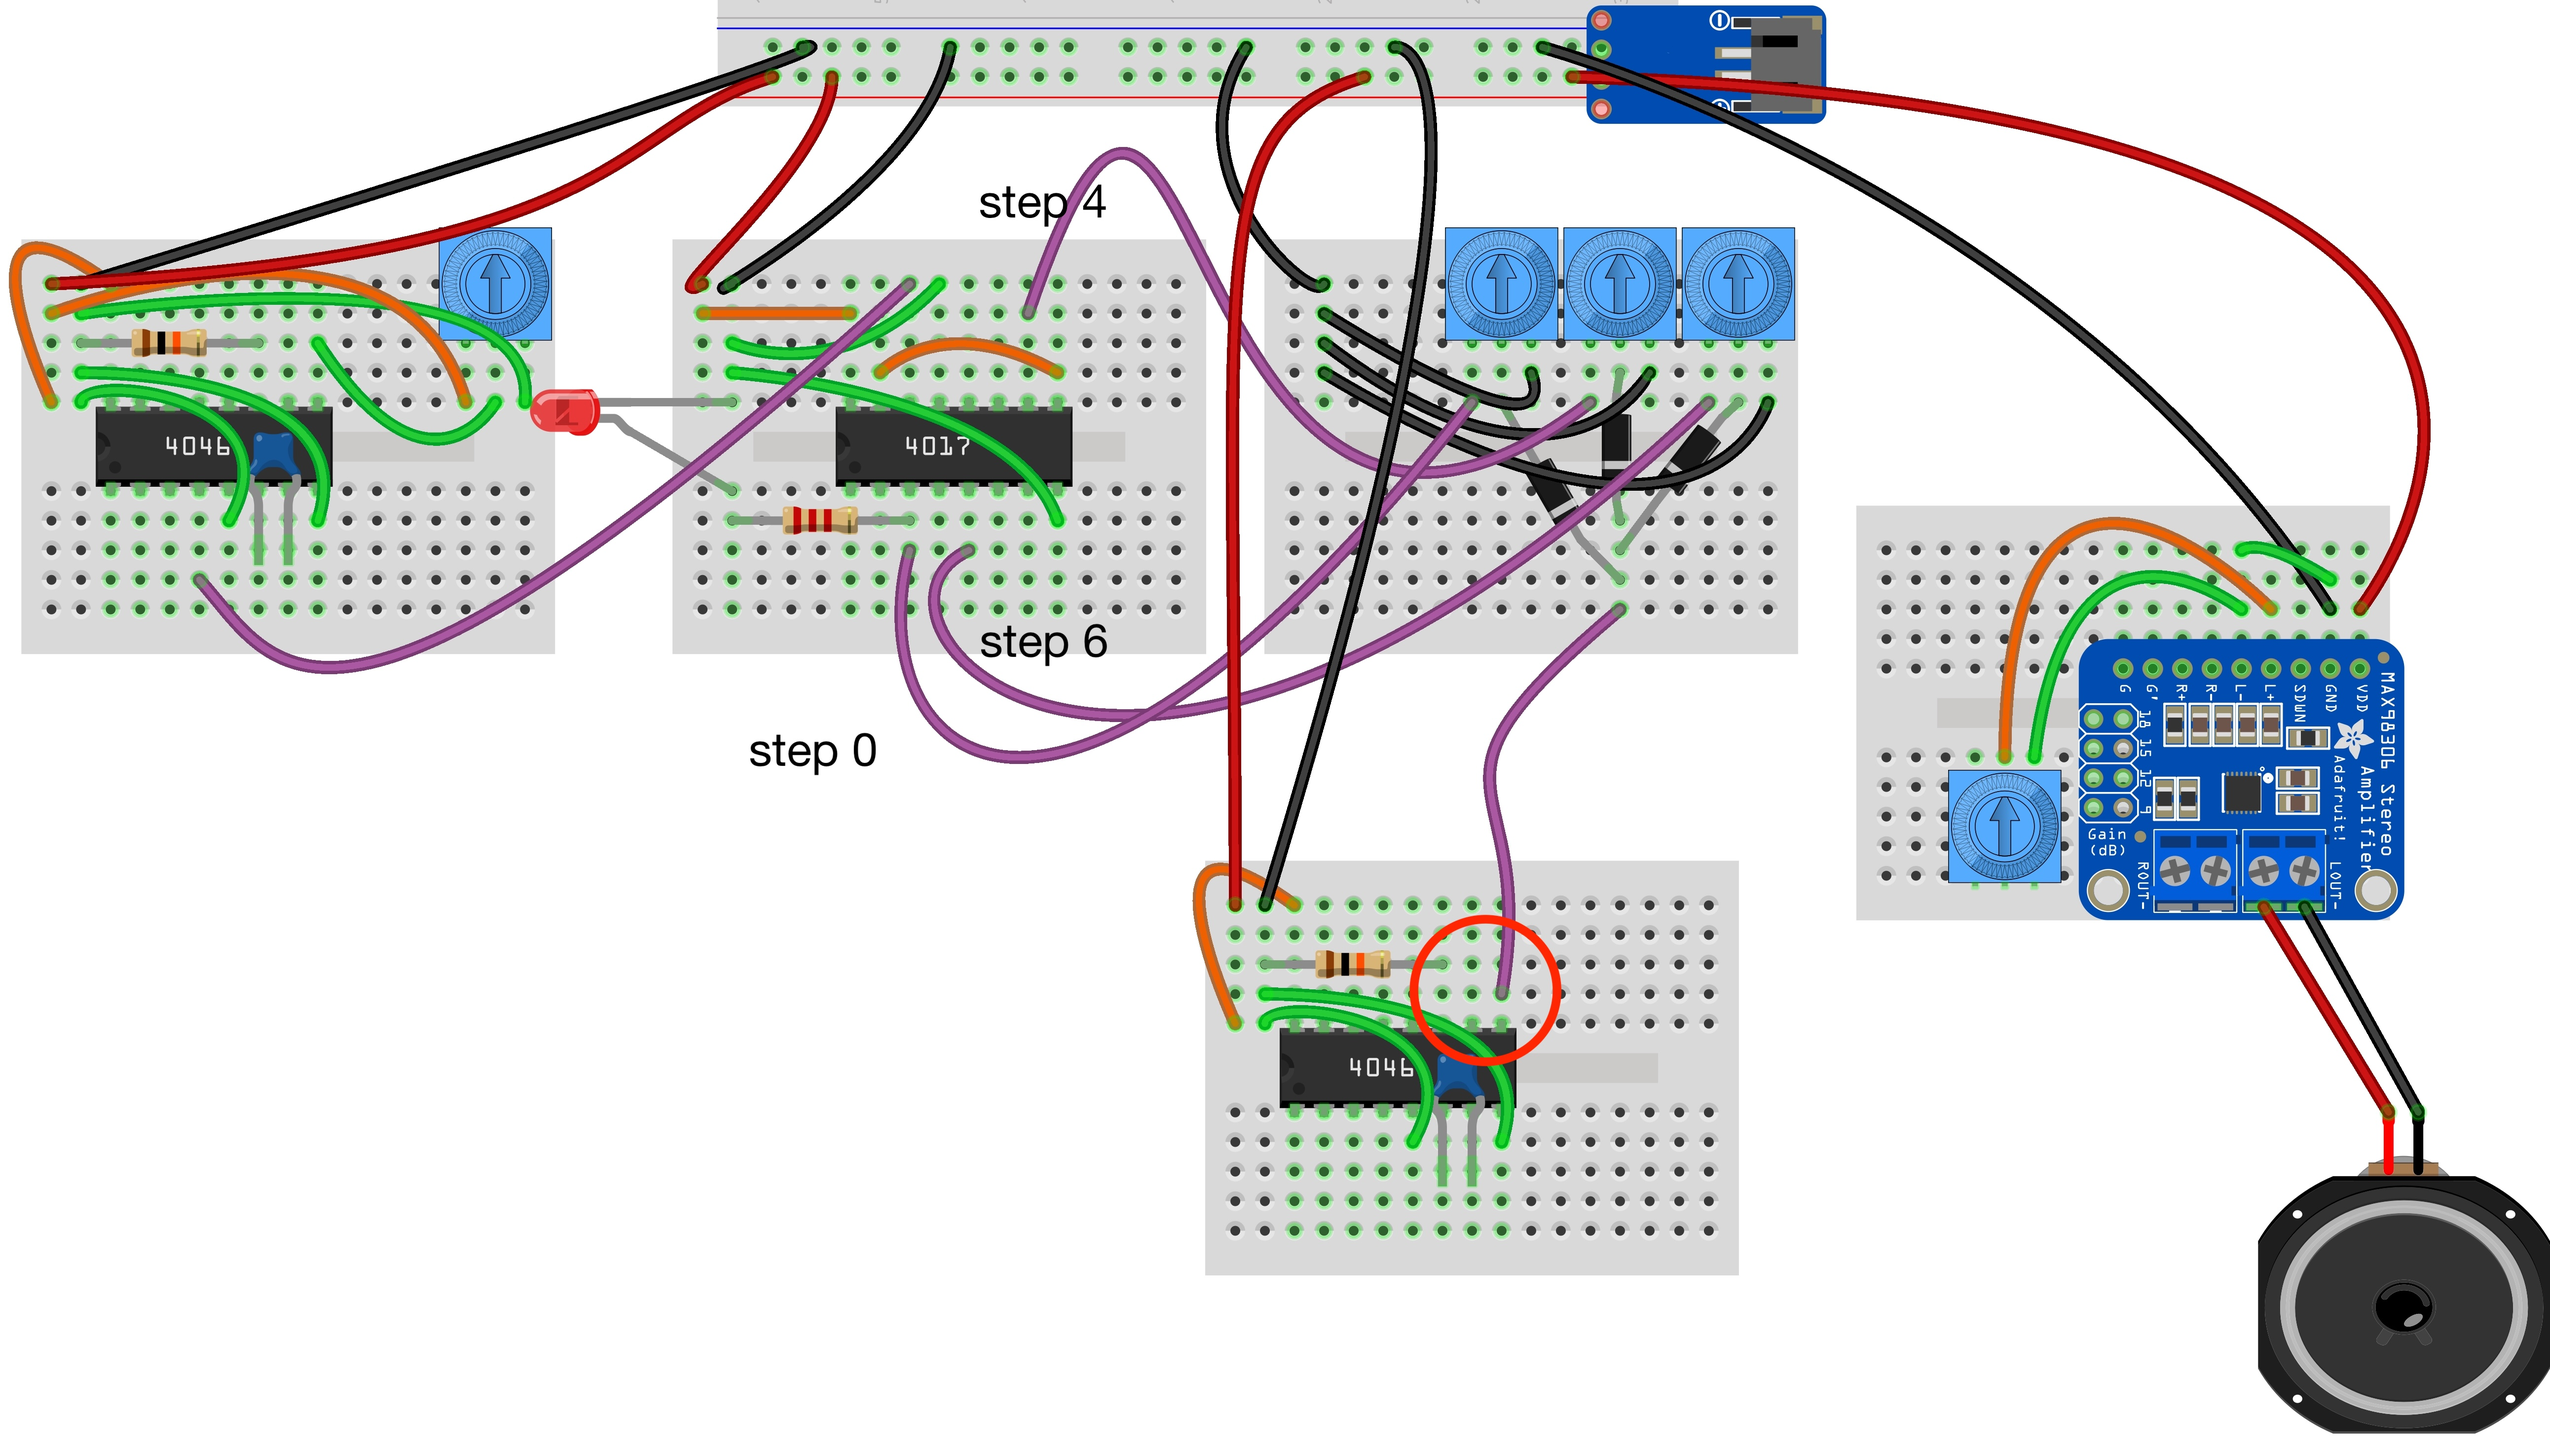
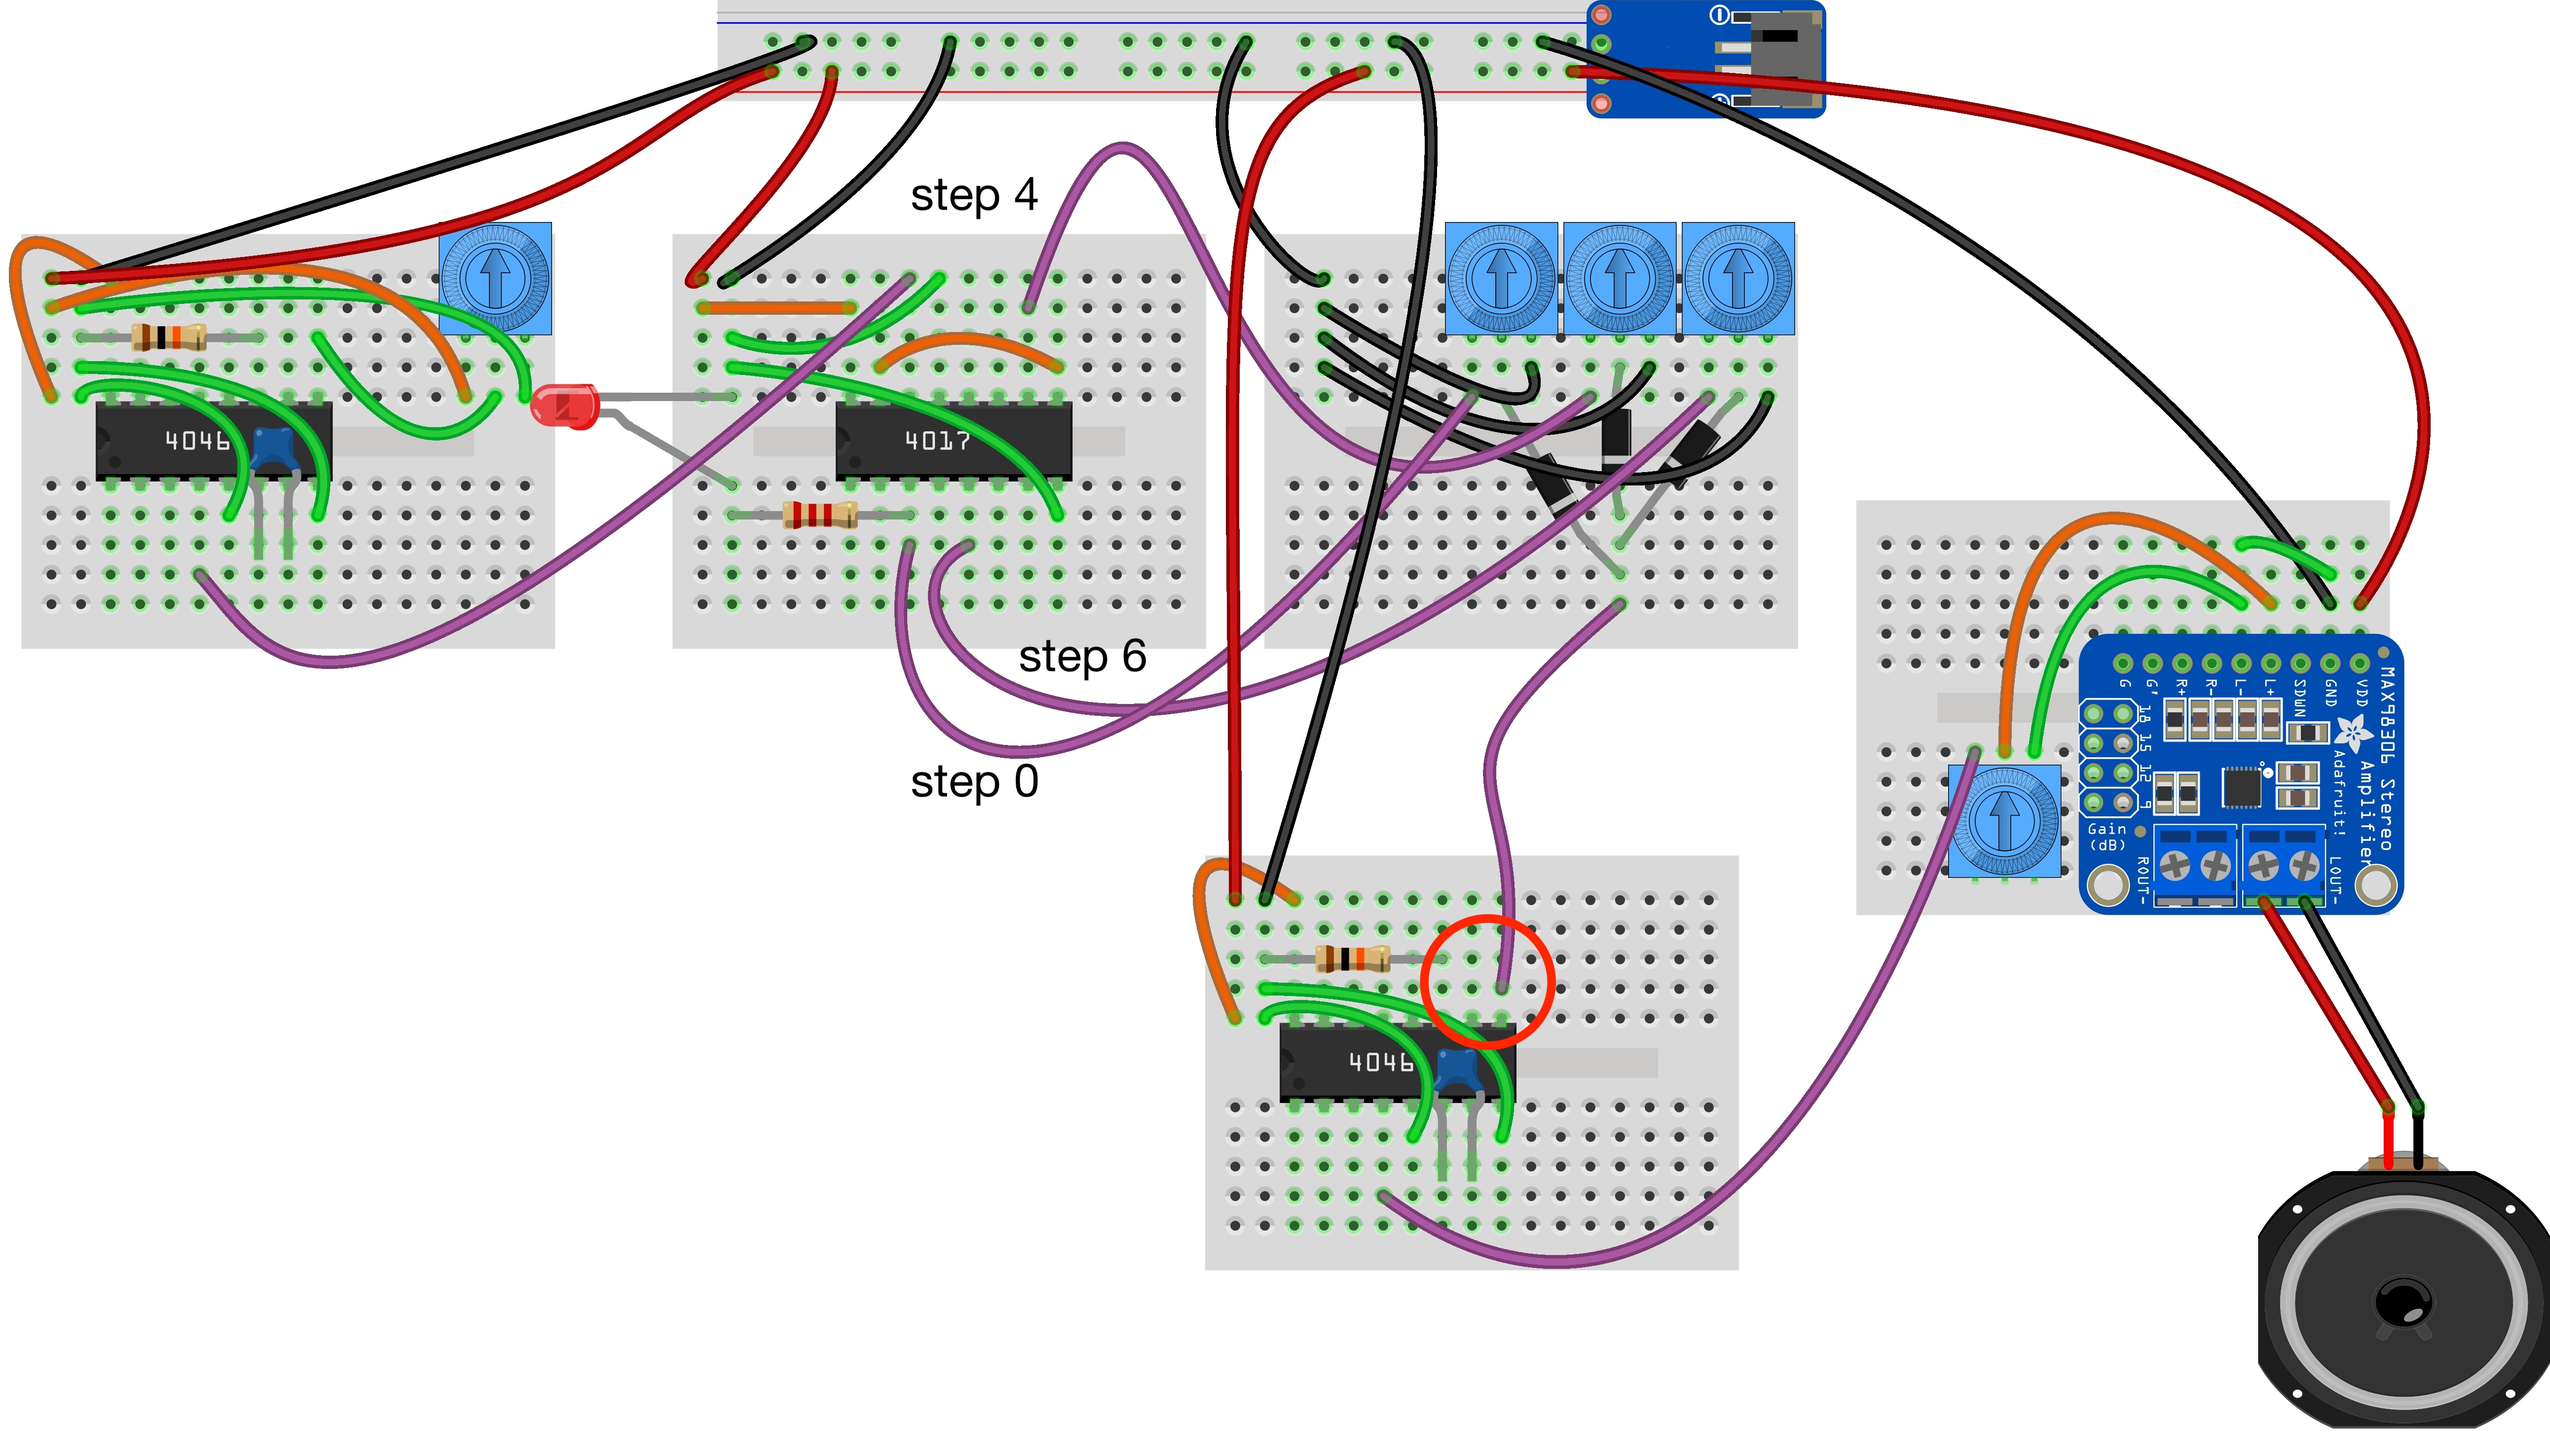
another fix

diff --git a/README.md b/README.md
@@ -235,7 +235,6 @@ Our college is named after a white colonizer and is built in the Kwinitekw Valle
 <!-- - Workshop: [Sensors and Switches](workshops/modules/sensors.md) -->
 - Reading due: Kim Cascone, "The Aesthetics of Failure" (2000)
 - Exercise for next class: [Responsive Oscillators](exercises/responsive_oscillator.md)
-<!-- prep for midterm meetings: ask for a self-assessment  -->
 
 
 ### Week 10
